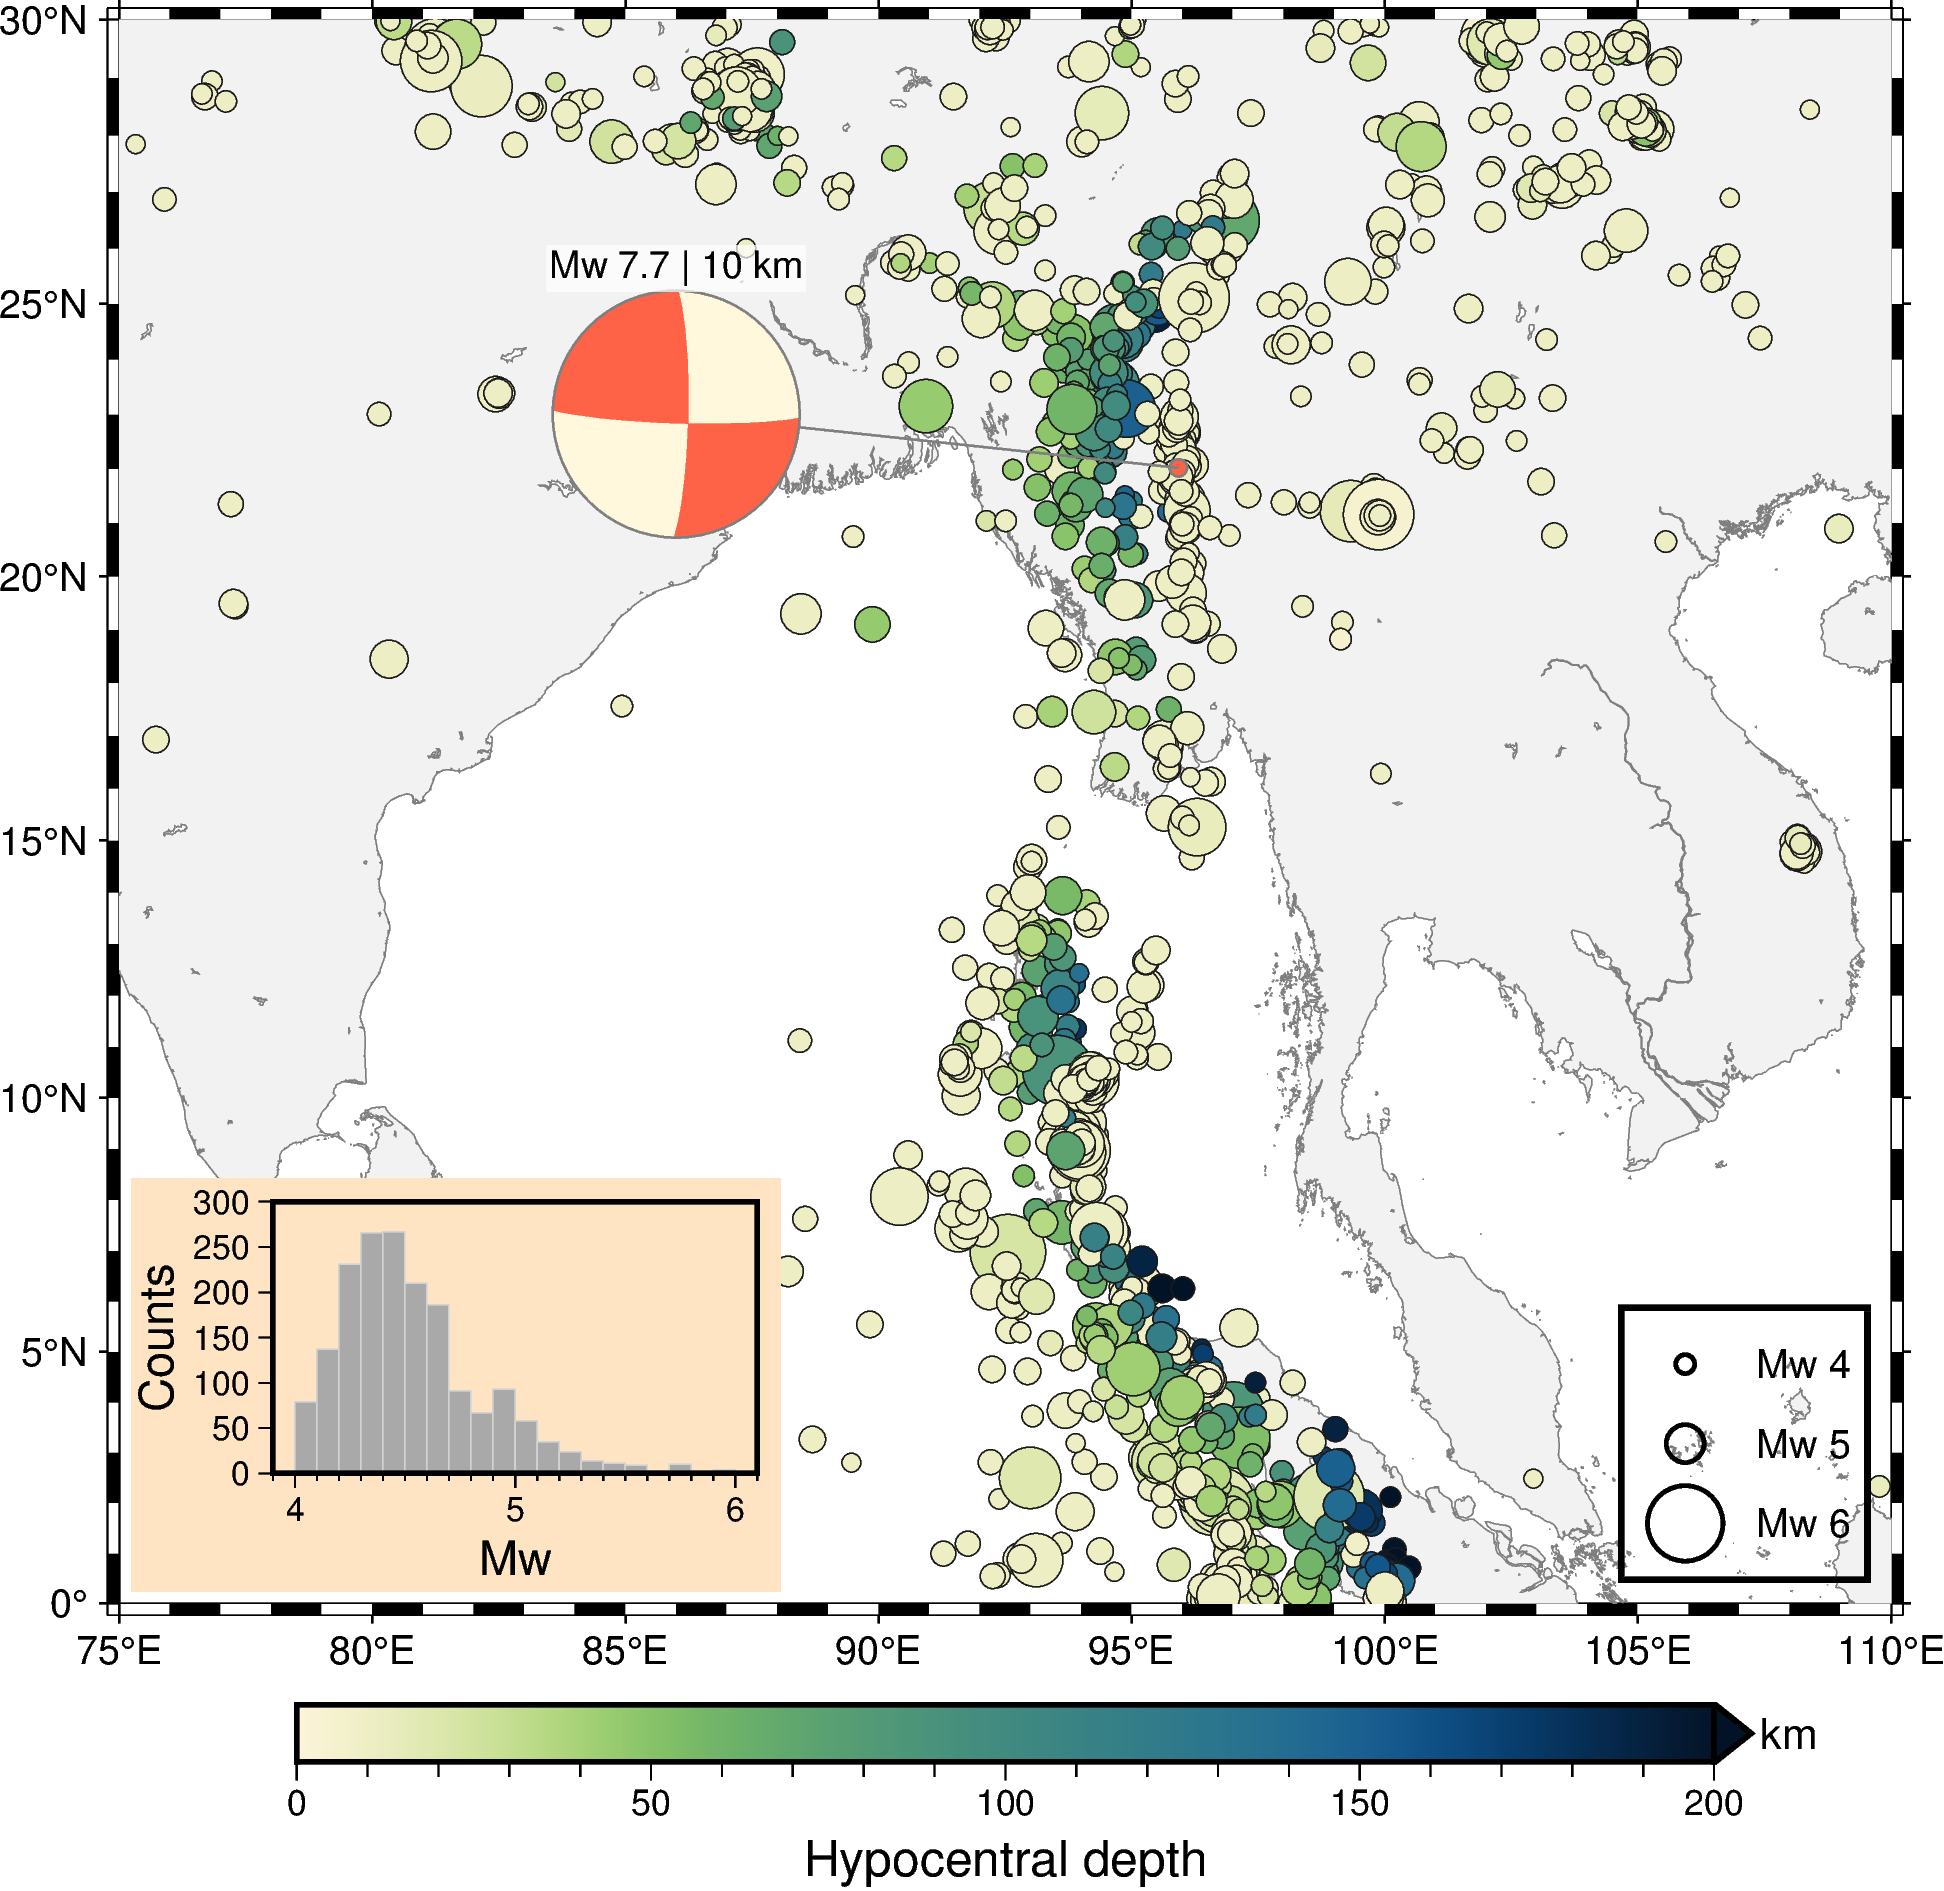
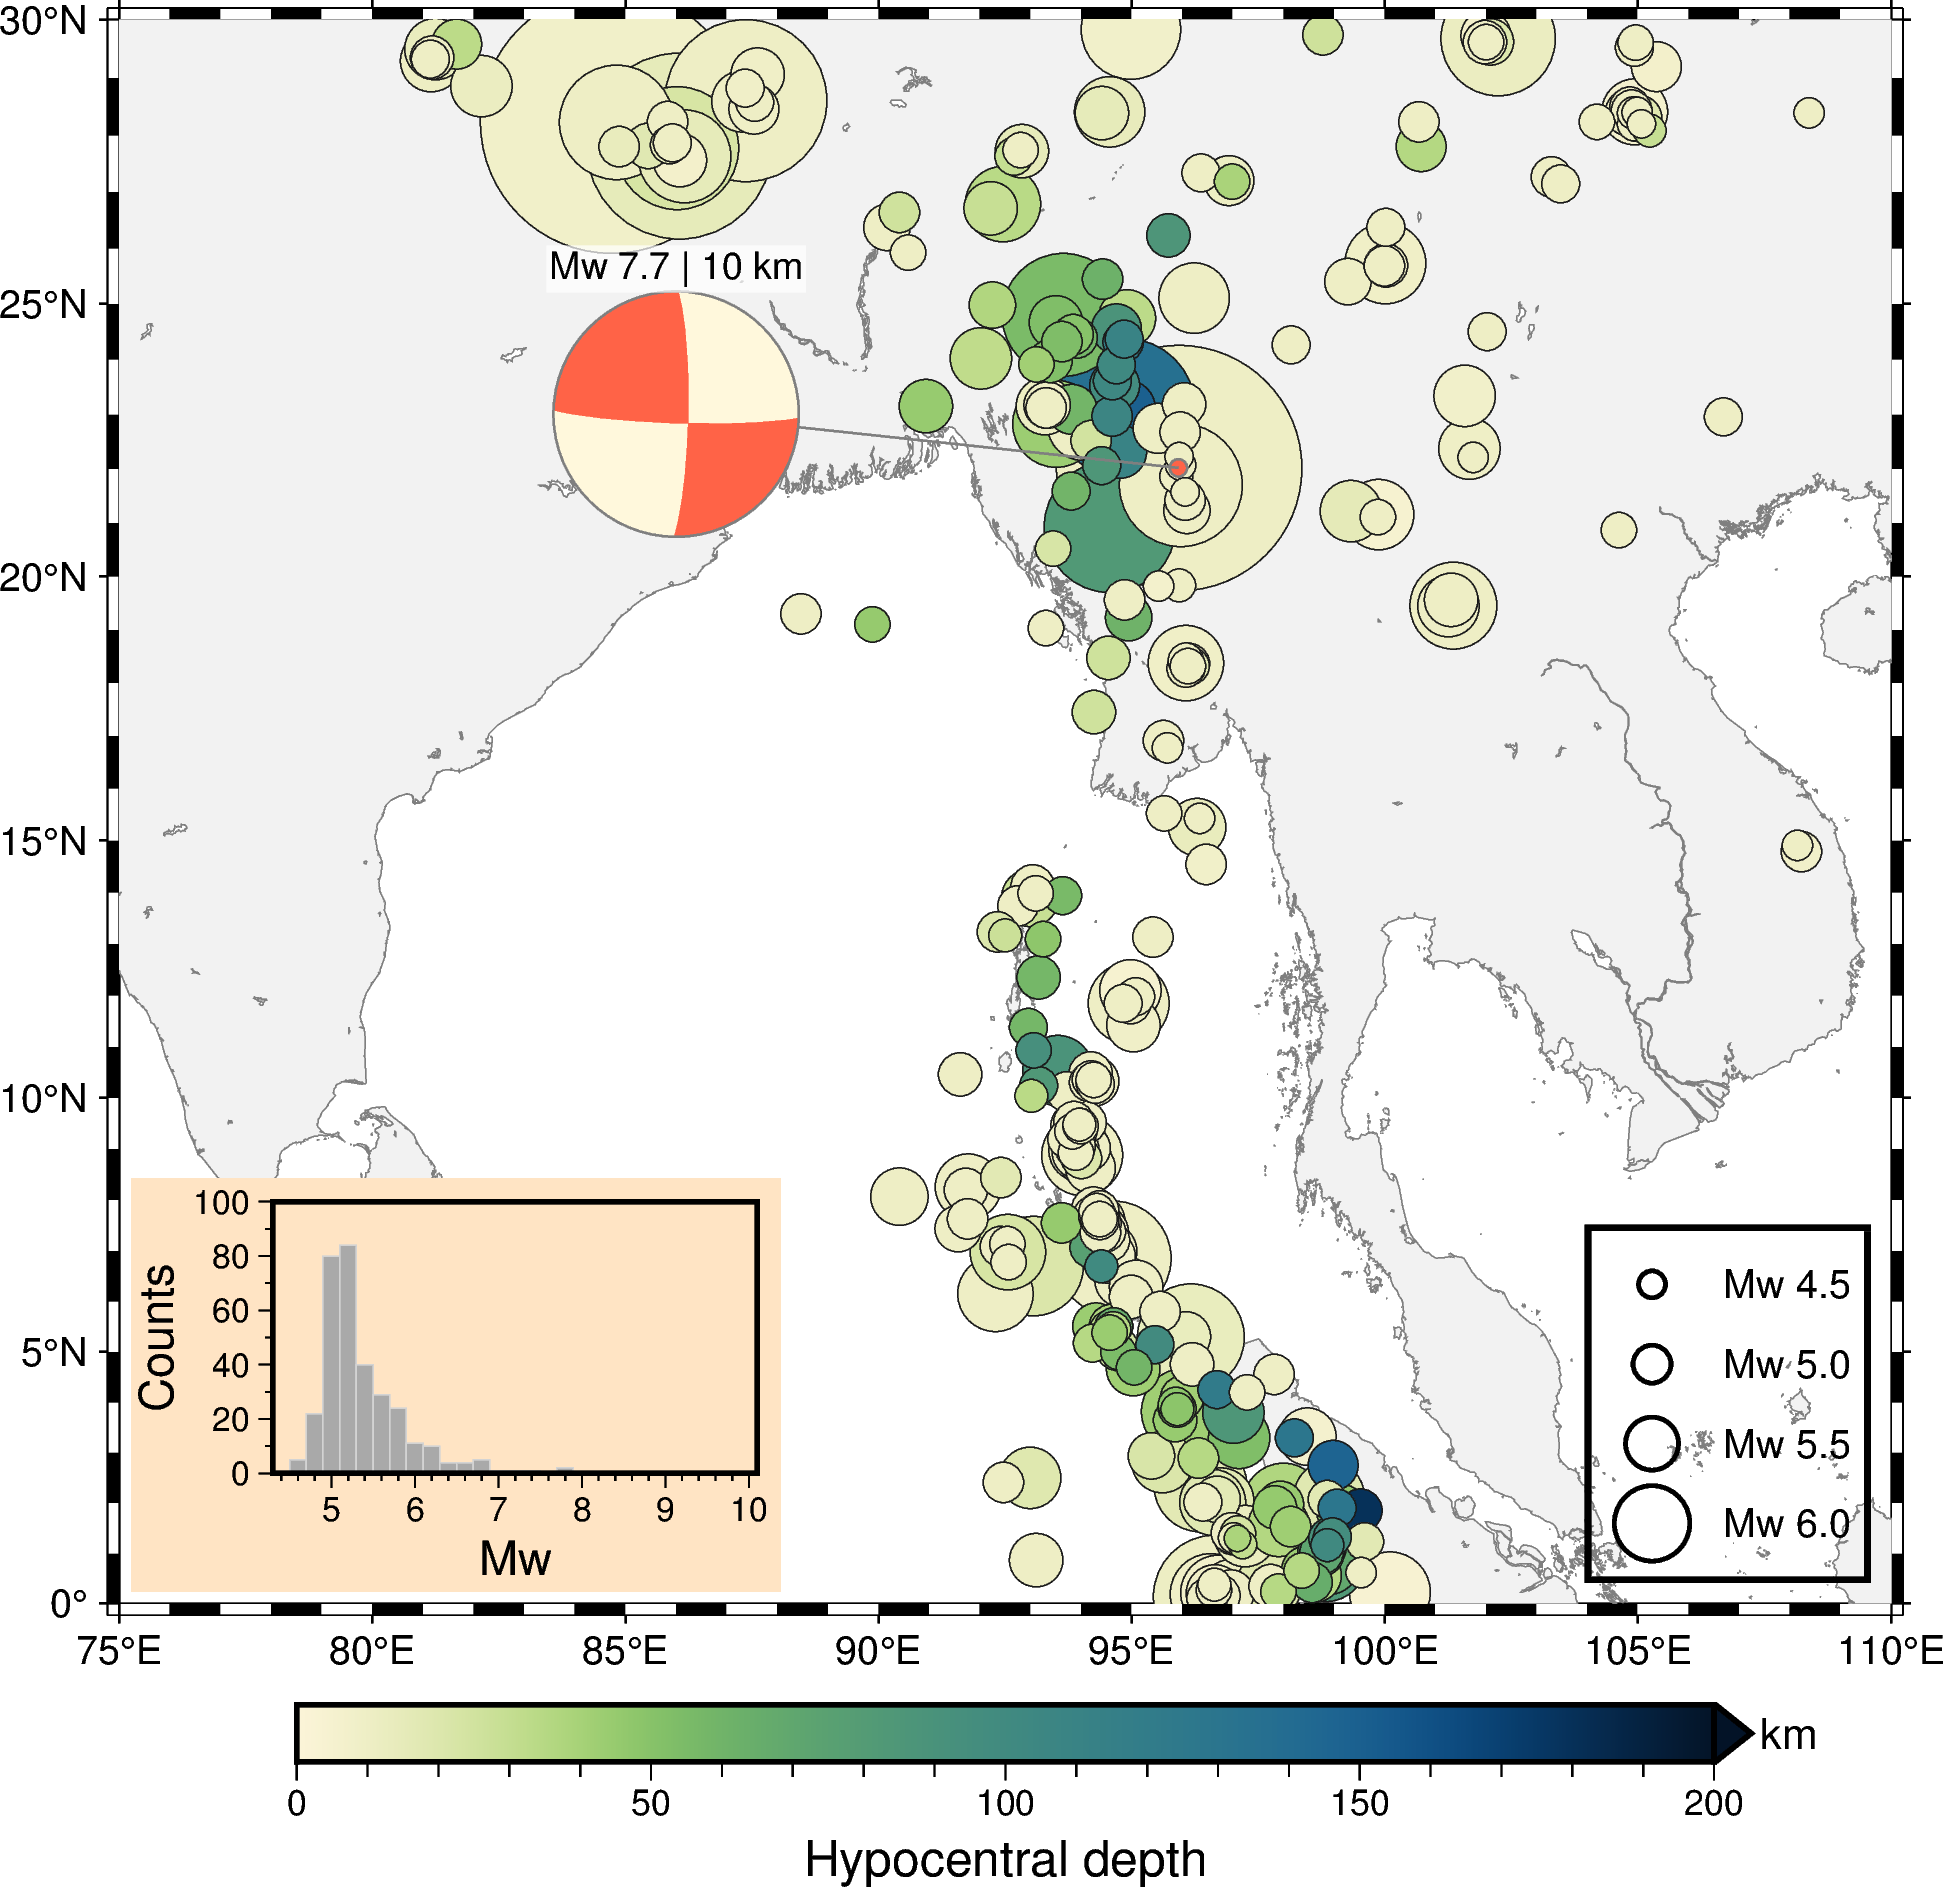
Focus on moment magnitude

diff --git a/Fig4_PyGMt_pandas.py b/Fig4_PyGMt_pandas.py
@@ -7,17 +7,19 @@ import requests
 url = "https://earthquake.usgs.gov/fdsnws/event/1/query"
 params = {
     "format": "csv",
-    "starttime": "2022-01-01",
+    "starttime": "2015-01-01",
     "endtime": "2025-10-30",
     "minlatitude": 33,
     "maxlatitude": 53,
     "minlongitude": 131,
     "maxlongitude": 152,
-    "minmagnitude": 4,
-    "maxmagnitude": 6,
+    "minmagnitude": 4.5,
+    "maxmagnitude": 10,
+    "orderby": "magnitude",
 }
 r = requests.get(url, params=params)
 df_eqs = pd.read_csv(io.StringIO(r.text))
+df_eqs = df_eqs[df_eqs["magType"] != "mb"]  # Focus on moment magnitudes
 
 
 fig = pygmt.Figure()
@@ -39,7 +41,7 @@ fig.plot(
 
 # Add legend for size-coding
 legend = io.StringIO(
-    "\n".join(f"S 0.4 c {0.01 * 2**m:.2f} - 1p 1 Mw {m}" for m in [4, 5, 6])
+    "\n".join(f"S 0.4 c {0.01 * 2**m:.2f} - 1p 1 Mw {m}" for m in [4.5, 5.0, 5.5, 6.0])
 )
 fig.legend(spec=legend, position="jBR+o0.2c+l2", box=True)
 
@@ -50,11 +52,11 @@ with fig.inset(
     box=pygmt.params.Box(fill="bisque"),
 ):
     fig.histogram(
-        region=[3.9, 6.1, 0, 0],
+        region=[4.3, 10.2, 0, 0],
         projection="X?/?",
-        frame=["WSrt", "xa1af0.1+lMw", "yaf+lCounts"],
+        frame=["WSrt", "xa1f0.2+lMw", "yaf+lCounts"],
         data=df_eqs.mag,
-        series=0.1,
+        series=0.2,
         fill="darkgray",
         pen="lightgray",
         histtype=0,
@@ -76,9 +78,9 @@ lon_min = 75
 lon_max = 110
 lat_min = 0
 lat_max = 30
-mag_min = 4
-mag_max = 6
-start_time = "2022-01-01"
+mag_min = 4.5
+mag_max = 10
+start_time = "2015-01-01"
 end_time = "2025-10-30"
 
 url = "https://earthquake.usgs.gov/fdsnws/event/1/query"
@@ -92,9 +94,11 @@ params = {
     "maxlongitude": lon_max,
     "minmagnitude": mag_min,
     "maxmagnitude": mag_max,
+    "orderby": "magnitude",
 }
 r = requests.get(url, params=params)
 df_eqs = pd.read_csv(io.StringIO(r.text))
+df_eqs = df_eqs[df_eqs["magType"] != "mb"]  # Focus on moment magnitudes
 
 fig = pygmt.Figure()
 fig.basemap(region=[lon_min, lon_max, lat_min, lat_max], projection="M15c", frame=True)
@@ -115,15 +119,15 @@ fig.plot(
 
 # Add legend for size-coding
 legend = io.StringIO(
-    "\n".join(f"S 0.4 c {0.01 * 2**m:.2f} - 1p 1 Mw {m}" for m in [4, 5, 6])
+    "\n".join(f"S 0.4 c {0.01 * 2**m:.2f} - 1p 1 Mw {m}" for m in [4.5, 5.0, 5.5, 6.0])
 )
 fig.legend(spec=legend, position="jBR+o0.2c+l2", box=True)
 
 # Plot beachball for Myanmar earthquake on 2025/03/28
-dict_fm = {"strike": 1, "dip": 82, "rake": 174, "magnitude": 9.1}
+dict_fm = {"strike": 1, "dip": 82, "rake": 174, "magnitude": 7.7}
 fig.meca(
     spec=dict_fm,
-    scale="1.15c",
+    scale="1.35c",
     longitude=95.922,
     latitude=22.013,
     depth=10,
@@ -144,11 +148,11 @@ with fig.inset(
     box=pygmt.params.Box(fill="bisque"),
 ):
     fig.histogram(
-        region=[3.9, 6.1, 0, 0],
+        region=[4.3, 10.1, 0, 0],
         projection="X?/?",
-        frame=["WSrt", "xa1f0.1+lMw", "yaf+lCounts"],
+        frame=["WSrt", "xa1f0.2+lMw", "ya20f10+lCounts"],
         data=df_eqs.mag,
-        series=0.1,
+        series=0.2,
         fill="darkgray",
         pen="lightgray",
         histtype=0,
